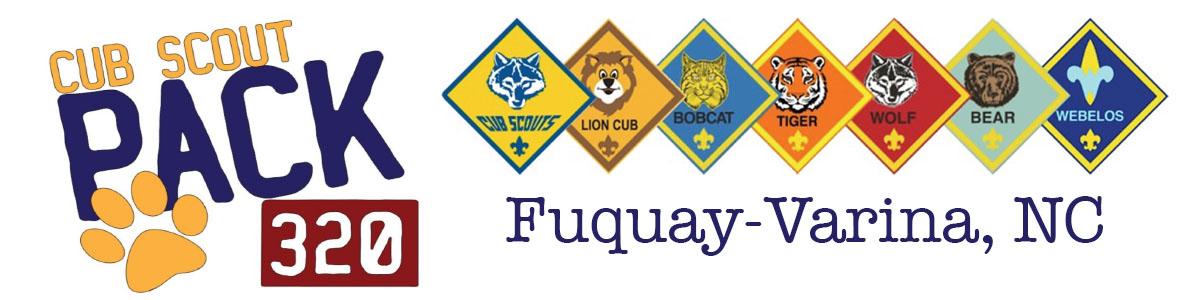
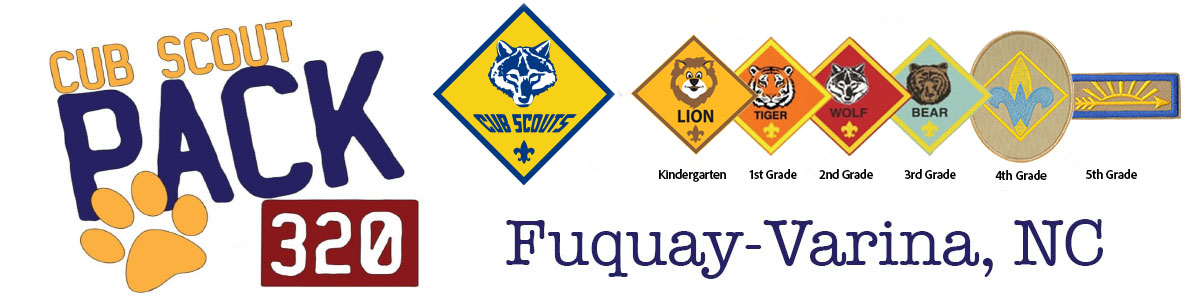
Updating package, header image and adding payment dropdown

Changed region(s): [[0.3392, 0.0, 0.9867, 0.63], [0.4008, 0.63, 0.925, 0.93]]

diff --git a/index.html b/index.html
@@ -44,6 +44,22 @@
 								</a>
 							</div>
 						</div>
+						<div class="navbar-item has-dropdown is-hoverable">
+							<a class="navbar-link">
+							Payments
+							</a>
+							<div class="navbar-dropdown">
+								<a class="navbar-item" href="https://scout-pack-320.square.site/product/donations-pack-320/59?cs=true&cst=custom">
+									Donate
+								</a>
+								<a class="navbar-item" href="https://scout-pack-320.square.site/product/pack-320-dues/2?cs=true&cst=custom">
+									Pack 320 Dues
+								</a>
+								<a class="navbar-item" href="https://scout-pack-320.square.site/">
+									Other
+								</a>
+							</div>
+						</div>
 					</div>
 					<div class="navbar-end">
 						<div class="navbar-item">
